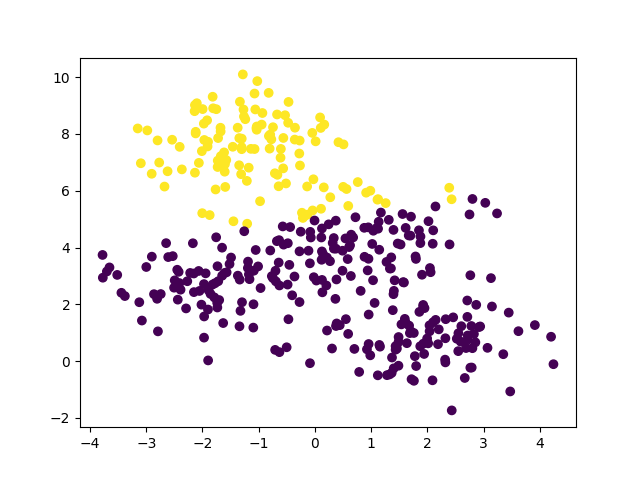
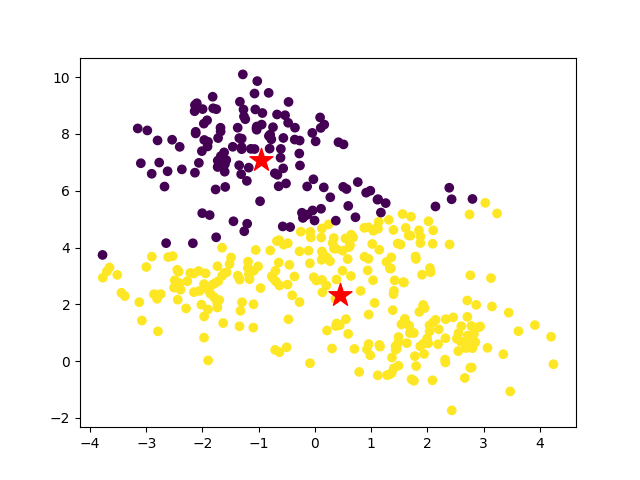
scatter_plot centroids

diff --git a/run_kmc.py b/run_kmc.py
@@ -19,7 +19,9 @@ def run_kmeans(n, dataset):
   machine = KMeans(n_clusters=n)
   machine.fit(dataset)
   results = machine.predict(dataset)
+  centroids = machine.cluster_centers_
   pyplot.scatter(dataset[:,0],dataset[:,1], c=results)
+  pyplot.scatter(centroids[:,0], centroids[:, 1], c="red", marker="*", s=300)
   pyplot.savefig("scatterplot_kmeans_" + str(n) + ".png")
   pyplot.close()
   return silhouette_score(dataset, results, metric="euclidean")
